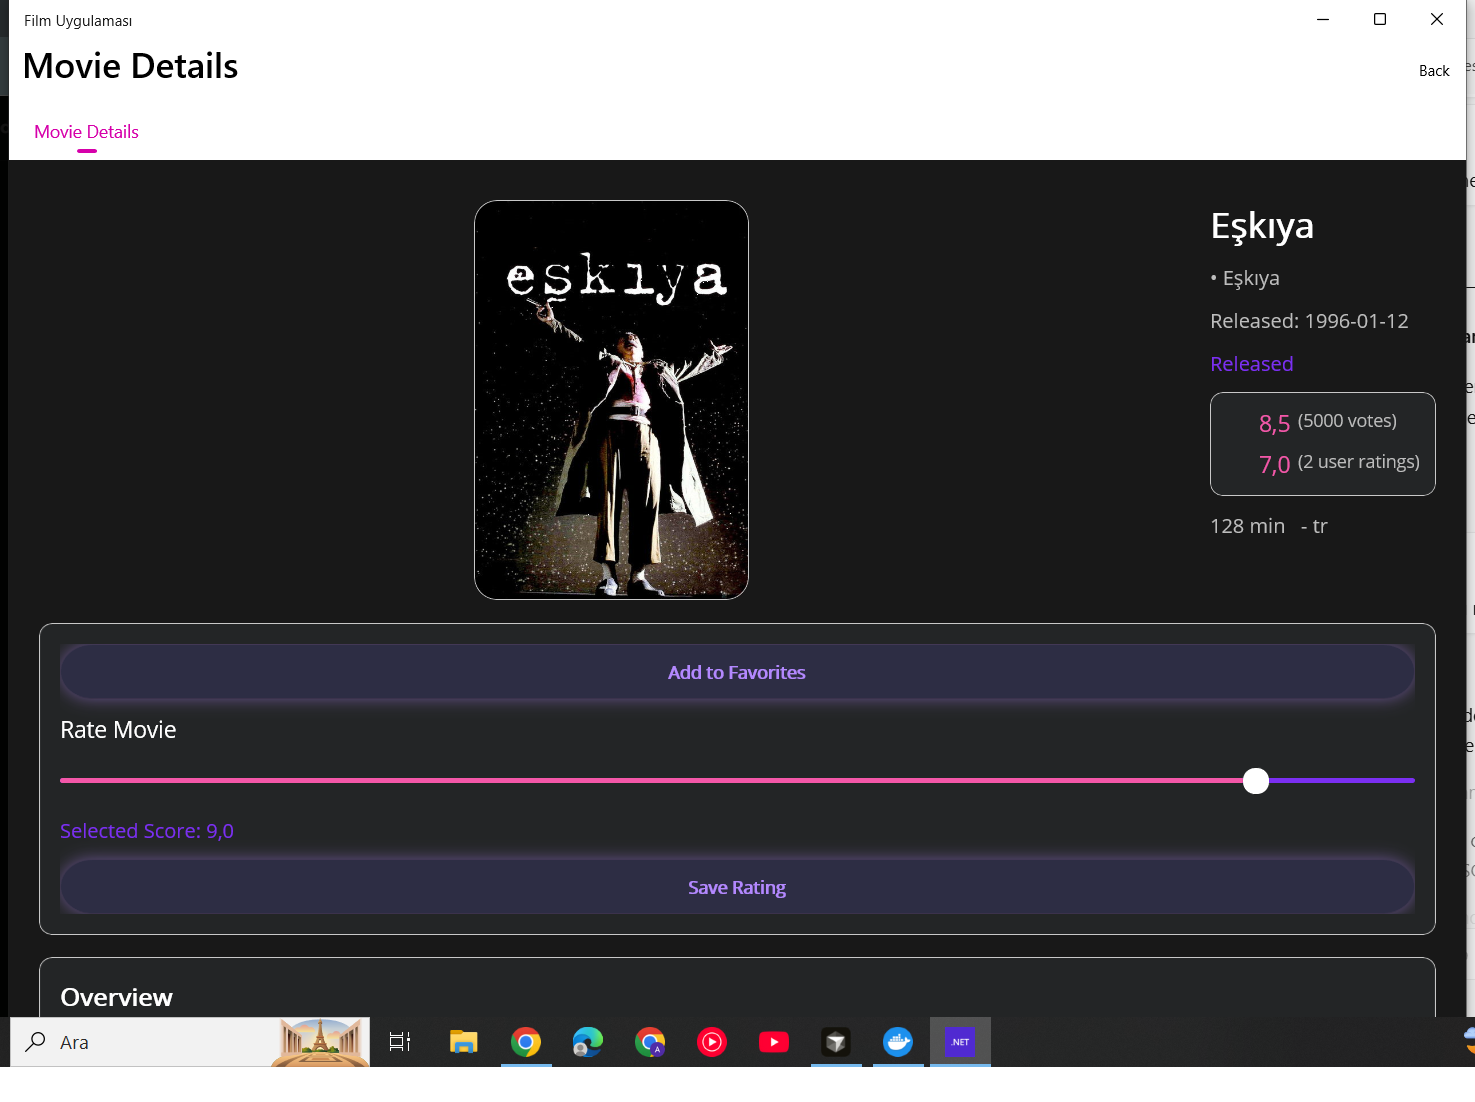
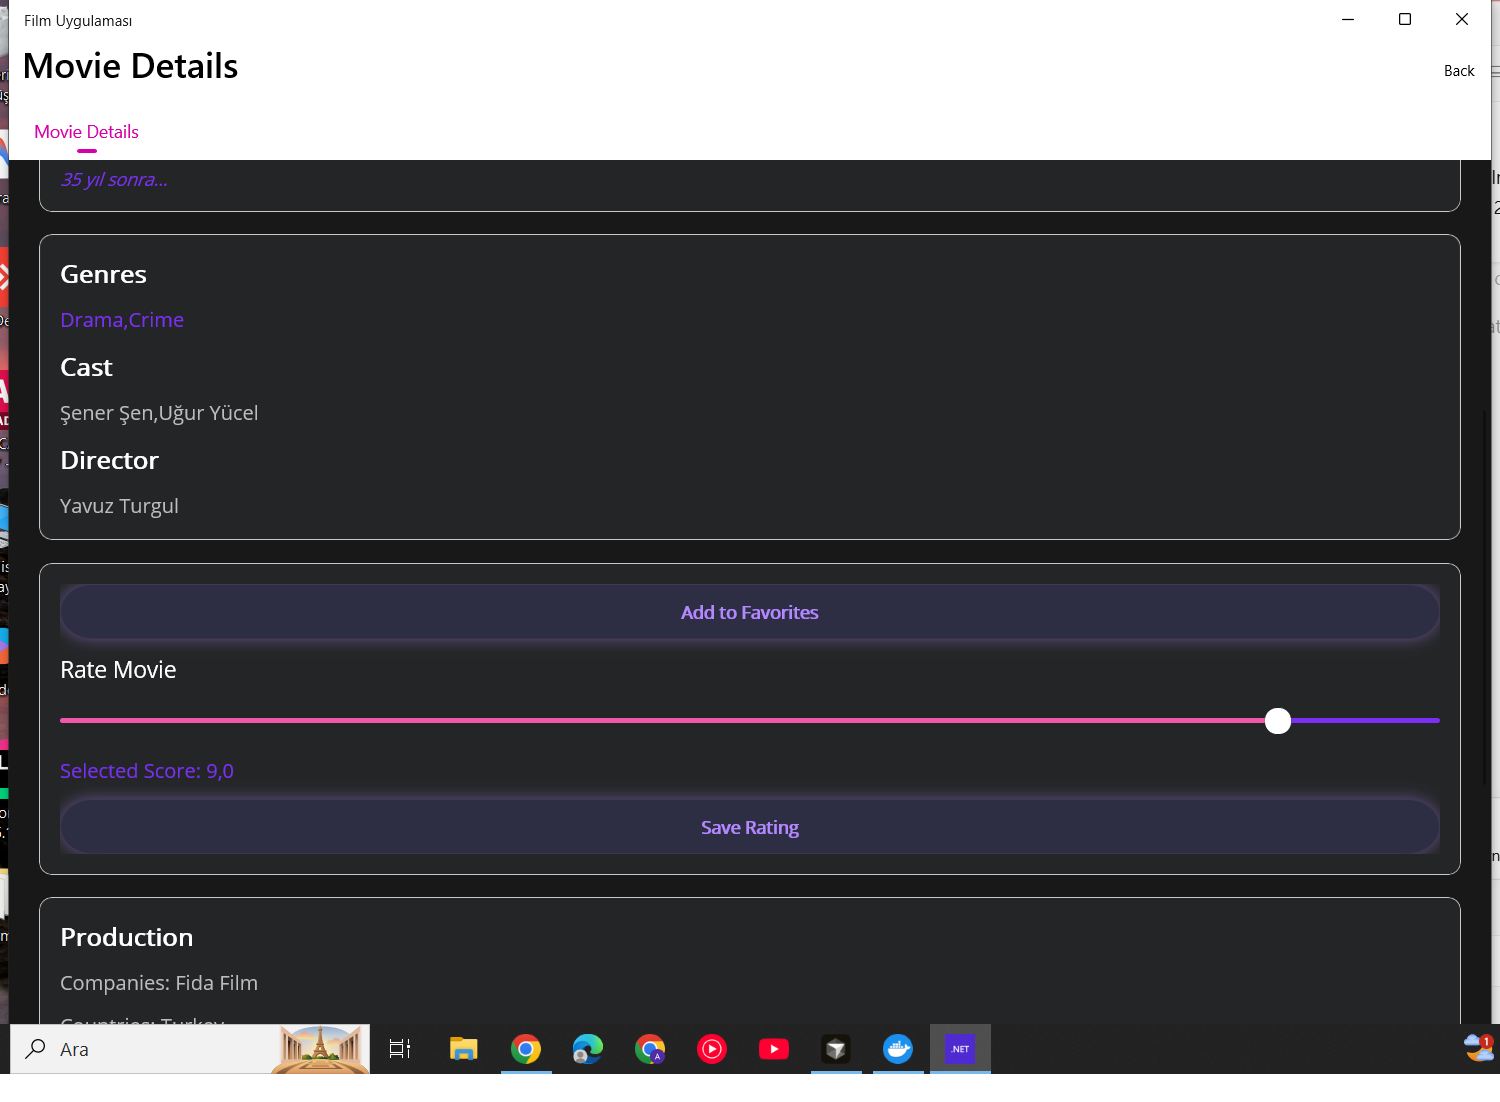
Dedupe MAUI gallery: one detail, one rating, one favorites-with-delete.

diff --git a/app.js b/app.js
@@ -199,8 +199,8 @@ const MANIFEST = {
     "assets/maui-dotnet/03-forgot-password.png",
     "assets/maui-dotnet/04-movies.png",
     "assets/maui-dotnet/04b-movies-scroll.png",
+    "assets/maui-dotnet/12-movie-detail-info.png",
     "assets/maui-dotnet/11-rate-movie-clean.png",
-    "assets/maui-dotnet/06-favorites.png",
     "assets/maui-dotnet/06b-favorites-delete.png",
     "assets/maui-dotnet/08-rated.png",
     "assets/maui-dotnet/07-profile.png"
@@ -213,14 +213,14 @@ const GALLERY_CAPTIONS = {
   "03-forgot-password.png": "Sifremi unuttum",
   "04-movies.png": "Film listesi",
   "04b-movies-scroll.png": "Film listesi (kaydirilmis)",
-  "11-rate-movie-clean.png": "Rate Movie + Selected Score + Save Rating",
-  "06-favorites.png": "Favoriler",
-  "06b-favorites-delete.png": "Favoriden sil - secili film + Delete Selected",
+  "12-movie-detail-info.png": "Film detayi - Eskiya (ozet, tur, oyuncular)",
+  "11-rate-movie-clean.png": "Puanlama - Rate Movie + Save Rating",
+  "06b-favorites-delete.png": "Favoriler - secili film + Delete Selected",
   "08-rated.png": "Puanladigim filmler",
   "07-profile.png": "Profil - nadire@nadire.com"
 };
 
-const IMG_CACHE_BUST = "20260920ascii";
+const IMG_CACHE_BUST = "20260920unique2";
 
 function prettyName(file) {
   if (GALLERY_CAPTIONS[file]) return GALLERY_CAPTIONS[file];

diff --git a/index.html b/index.html
@@ -8,7 +8,7 @@
   <link rel="preconnect" href="https://fonts.googleapis.com" />
   <link rel="preconnect" href="https://fonts.gstatic.com" crossorigin />
   <link href="https://fonts.googleapis.com/css2?family=DM+Sans:ital,opsz,wght@0,9..40,400;0,9..40,500;0,9..40,600;0,9..40,700;1,9..40,400&family=Instrument+Serif:ital@0;1&display=swap" rel="stylesheet" />
-  <link rel="stylesheet" href="styles.css?v=20260920ascii2" />
+  <link rel="stylesheet" href="styles.css?v=20260920unique2" />
 </head>
 <body>
   <header class="site-header">
@@ -286,6 +286,6 @@
     <img alt="" />
   </div>
 
-  <script src="app.js?v=20260920ascii2"></script>
+  <script src="app.js?v=20260920unique2"></script>
 </body>
 </html>
